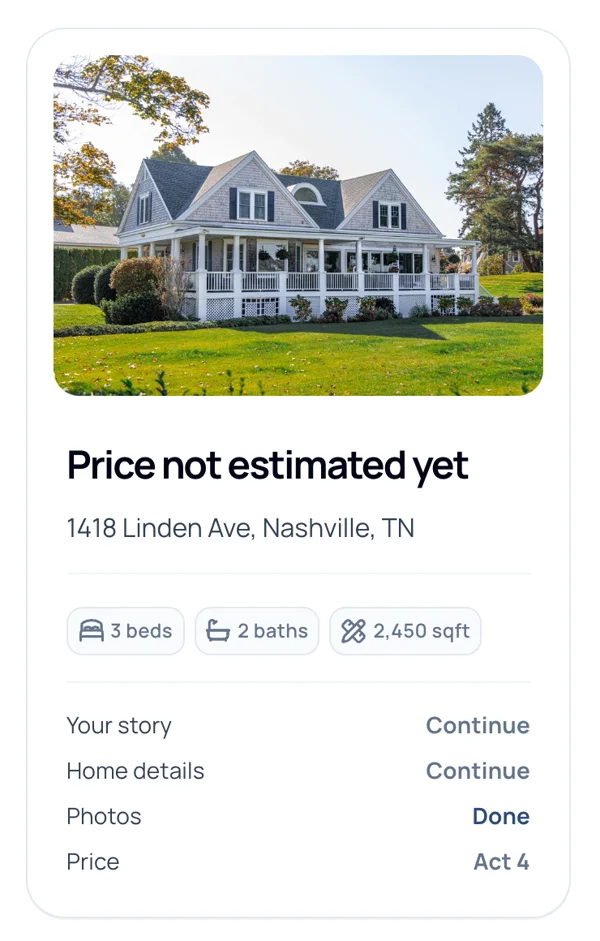
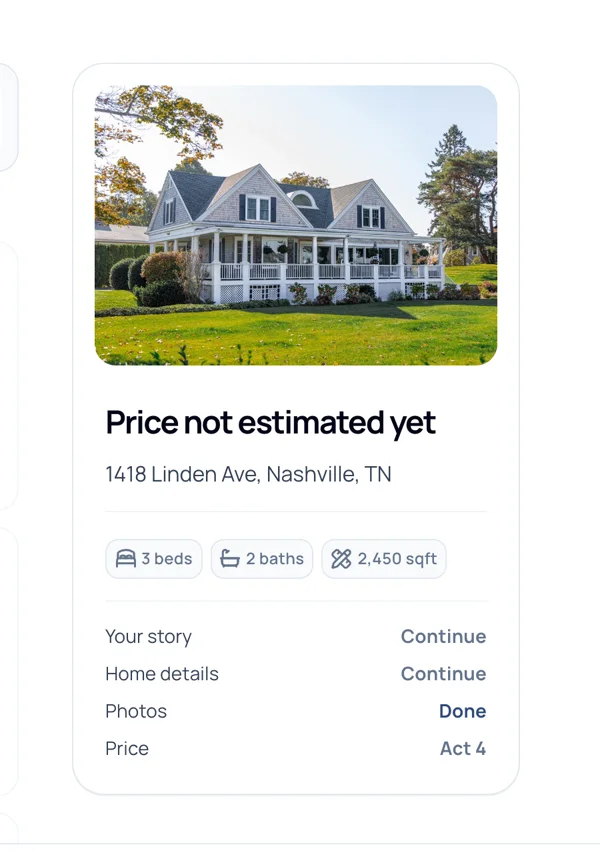
Screenshots: drop the mat, recrop tight images with more of the screen around them; Nexo sixth edition

diff --git a/components/CaseNexo.tsx b/components/CaseNexo.tsx
@@ -109,7 +109,7 @@ function content(lang: Lang): CaseContent {
     chips: ["case study", "website", "freelance", "live"], okChip: 3,
     cover,
     challenge: {
-      intro: "The event was taking a new name, and the old site wasn't ready to carry it:",
+      intro: "For its sixth edition, ENASEI was taking a new name, and the old site wasn't ready to carry it:",
       list: ["dense text and little visual impact, with a stock skyline as the hero", "dozens of sponsor logos of every shape in one long grid", "speaker photos with different backgrounds, crops and quality", "a lot of information to read fast: two days of agenda, dozens of speakers, three ticket types", "tickets had to sell online, with VIP, Executive and a CODIP affiliate rate that needs a conversation"],
       end: "And there was a {{fixed launch date, 6 July}}, with a domain move in the middle.",
       fig: enasei,
@@ -158,7 +158,7 @@ function content(lang: Lang): CaseContent {
     chips: ["caso de estudio", "sitio web", "freelance", "en vivo"], okChip: 3,
     cover,
     challenge: {
-      intro: "El evento cambiaba de nombre y el sitio anterior no estaba listo para cargarlo:",
+      intro: "En su sexta edición, ENASEI cambiaba de nombre y el sitio anterior no estaba listo para cargarlo:",
       list: ["mucho texto y poco impacto visual, con una foto genérica de la ciudad como hero", "decenas de logos de sponsors de todos los formatos en una sola grilla larga", "fotos de speakers con fondos, encuadres y calidades distintas", "mucha información para leer rápido: dos días de agenda, decenas de speakers, tres tipos de entrada", "las entradas tenían que venderse online: VIP, Ejecutiva y una tarifa de afiliados CODIP que requiere conversar"],
       end: "Y había una {{fecha de lanzamiento fija, el 6 de julio}}, con un cambio de dominio en el medio.",
       fig: enasei,

diff --git a/app/globals.css b/app/globals.css
@@ -242,12 +242,12 @@ button, select { font: inherit; color: inherit; }
 .frame.cols-trust { grid-template-columns: minmax(0, 1.6fr) minmax(0, 1fr); align-items: start; }
 .frame.rows { grid-template-columns: minmax(0, 1fr); }
 .frame.cols-phones { grid-template-columns: repeat(3, minmax(0, 1fr)); align-items: start; gap: 32px; }
-.crop.phone { border-radius: 28px; padding: 0; }
+.crop.phone { border-radius: 28px; }
 .pane { display: flex; flex-direction: column; gap: 20px; min-width: 0; }
 .pane-l { font-size: 13px; line-height: 20px; font-weight: 500; letter-spacing: 0.01em; color: var(--label); }
 .pane > .pane-l { font-family: inherit; font-size: 15px; line-height: 22px; font-weight: 500; color: var(--foreground); text-align: center; }
 .pane > .pane-l.on { color: var(--foreground); }
-.crop { display: block; width: 100%; height: auto; box-sizing: border-box; padding: clamp(6px, 2.2%, 16px); border-radius: 12px; background: var(--background); box-shadow: 0 6px 24px -8px var(--shadow), 0 1px 3px var(--shadow); }
+.crop { display: block; width: 100%; height: auto; border-radius: 8px; background: var(--background); box-shadow: 0 6px 24px -8px var(--shadow), 0 1px 3px var(--shadow); }
 .roles { list-style: none; margin: 0; padding: 0; }
 .roles { display: flex; flex-direction: column; gap: 8px; }
 .roles li { padding: 8px 12px; border-radius: 8px; background: var(--background); color: var(--muted-foreground); box-shadow: 0 1px 3px var(--shadow); }
